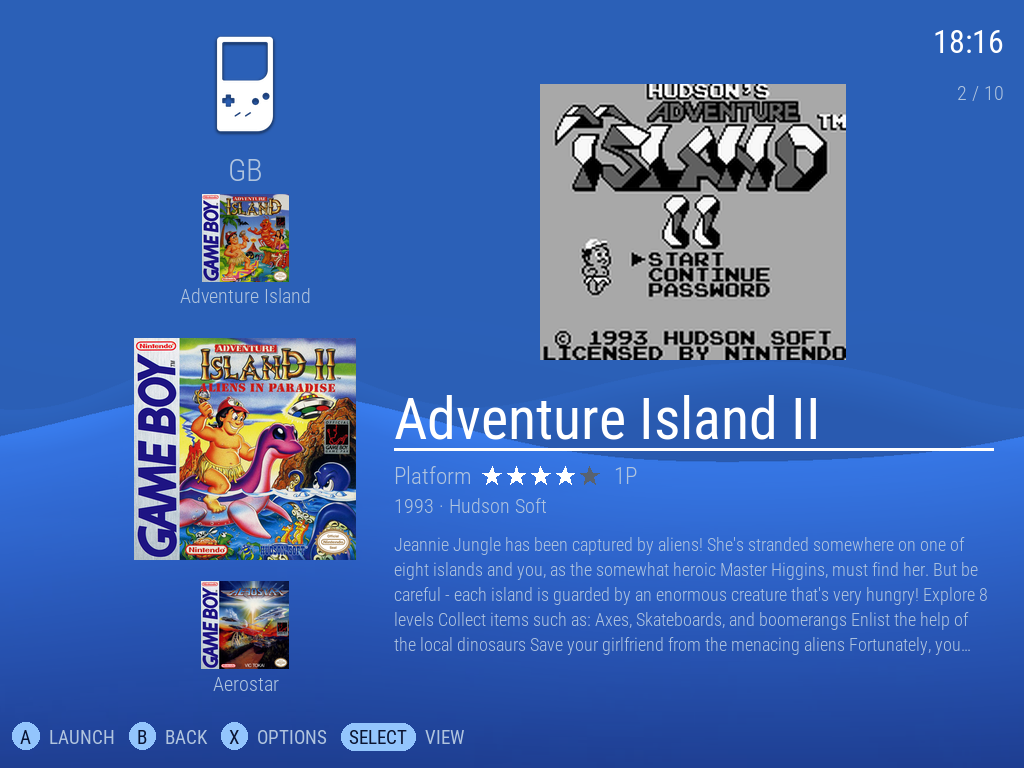
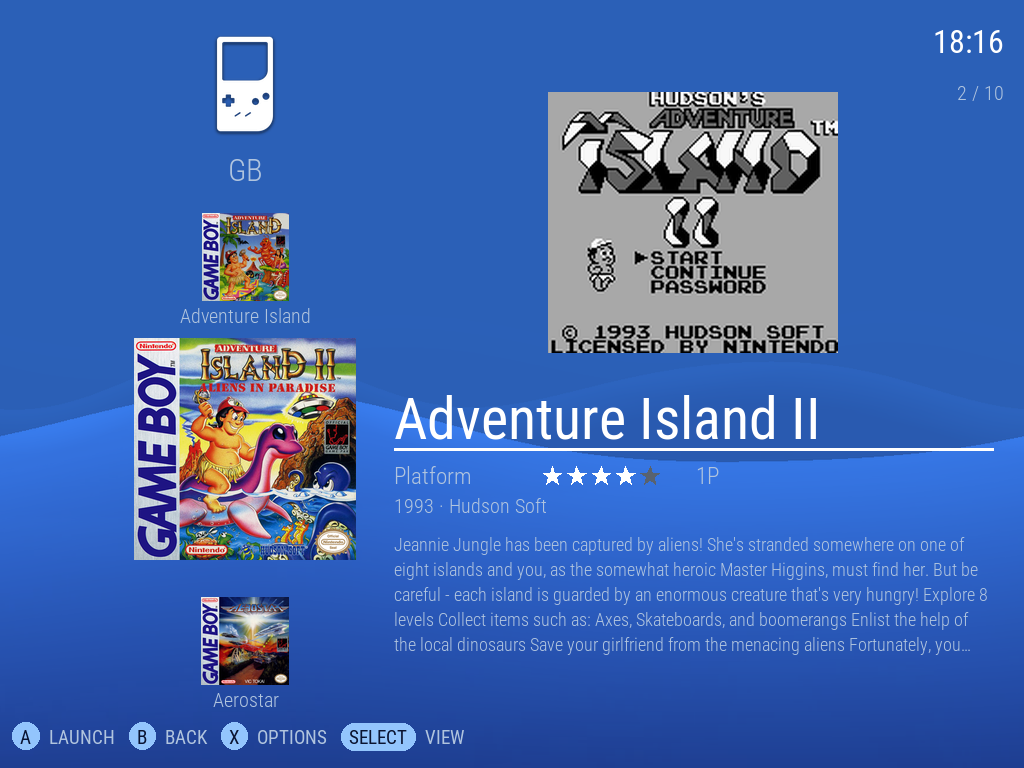
docs: five-star track + fixed metadata columns
{game:stars} emits filled glyphs only, so rounds 1-2 overstated the rating.
Approved fix is a dim backing track of five literal U+F005, which works
because ES does per-glyph font fallback to fontawesome (Font.cpp:274-312).

Layout consequence recorded: track is always 5 wide and filled is 0-5, so
both must be left-aligned at one fixed x. Stars can no longer flow after a
variable-width genre, so style A's metadata line becomes three fixed
columns. Column budget checked — 5 glyphs at cardMetaFontSize 0.030 measure
0.115 of screen width, leaving a 0.035 gap before the players column.

Side effect: this makes the long-genre overflow structurally impossible
rather than tuned away, which is what v0.11's per-ratio cardMetaFontSize
overrides were doing.

diff --git a/docs/superpowers/specs/2026-09-05-v0.12-gamelist-styles-design.md b/docs/superpowers/specs/2026-09-05-v0.12-gamelist-styles-design.md
@@ -172,7 +172,9 @@ middle centre. Verified collision-free:
 | Card boxart | `crossX`, 0.585 | `maxSize` 0.22 × 0.29 | 0.440 – 0.730 |
 | Card title | left 0.385, baseline 0.572 | font 0.075 | — |
 | Card rule | 0.385 → 0.970 at y 0.585 | 2 px | — |
-| Metadata line 1 | left 0.385, top 0.602 | `{game:genre}` + `{game:stars}` + `{game:playercount}P`, font 0.030 | — |
+| Metadata line 1 — genre | left 0.385, top 0.602 | `{game:genre}`, width **0.135**, `multiLine` false, font 0.030 | — |
+| Metadata line 1 — stars | left **0.530**, top 0.602 | track + `{game:stars}`, fixed column, font 0.030 | — |
+| Metadata line 1 — players | left **0.680**, top 0.602 | `{game:playercount}P`, font 0.030 | — |
 | Metadata line 2 | left 0.385, top 0.643 | `{game:releaseyear} · {game:developer}`, font 0.026 | — |
 | Description | left 0.385, top 0.695 | width 0.585, **5 lines**, font 0.023 | 0.695 – 0.870 |
 | Peek icon (next) | `crossX`, 0.835 | `maxSize` 0.088 × 0.115 | 0.7775 – 0.8925 |
@@ -199,7 +201,8 @@ beyond the shared media behaviour.
 | Selected row | — | `selectorColor` = `textPrimary` at ~30 % alpha; `selectedColor` = `textPrimary`; unselected `textSecondary` |
 | **`listMedia`** | centre (0.765, 0.30) | `maxSize` 0.34 × 0.30 |
 | Year · developer | left 0.575, top 0.505 | `{game:releaseyear}` in `${accent}`, font 0.030 |
-| Stars · players · genre | left 0.575, top 0.548 | font 0.028, genre in `${accent}` |
+| Stars | left 0.575, top 0.548 | track + `{game:stars}`, fixed column, font 0.028 |
+| Players · genre | left 0.700, top 0.548 | font 0.028, genre in `${accent}` |
 | Description | left 0.575, top 0.600 | width 0.395, 7 lines, font 0.024 |
 
 The system icon and the XMB peek column are **not** used in this style; the wave
@@ -218,7 +221,8 @@ Reference mockup: `d-boxart-grid.png`. No changes requested.
 | Unselected tiles | — | `imageColor` at ~62 % alpha |
 | Info bar | 0.03 → 0.97, y 0.795 – 0.905 | rounded panel, black at ~40 % |
 | Title | left 0.05, top 0.808 | `{game:name}`, font 0.046 |
-| Metadata | left 0.05, top 0.862 | genre · year · developer · players + stars, font 0.027 |
+| Metadata | left 0.05, top 0.862 | genre · year · developer · players, font 0.027, clipped at width 0.60 |
+| Stars | left **0.68**, top 0.862 | track + `{game:stars}`, fixed column, font 0.027 |
 
 `gridtile` properties confirmed present in this ES build: `size`, `padding`,
 `imageColor`, `backgroundImage`, `backgroundCornerSize`, `backgroundColor`,
@@ -296,11 +300,57 @@ It returns **only the filled glyphs** — there is no empty-star track. A
 mockups all draw a dim fifth star, so **the mockups overstate what ES will
 render.**
 
-If a five-star track is wanted, it has to be built: a dim `"\uF005"×5`
-text element behind the bound one, both in the fontawesome font at the same
-size, origin and position. That is a small piece of extra work, not free —
-raise it with the user rather than silently shipping four stars or silently
-building the track.
+### Decision: build the five-star track
+
+Approved 2026-09-05. Each style gets a paired element:
+
+```xml
+<!-- dim backing track: five literal U+F005, always five -->
+<text name="cardStarTrack" extra="true">
+  <pos>${cardStarX} ${cardMetaY}</pos>
+  <fontPath>${fontLight}</fontPath>
+  <fontSize>${cardMetaFontSize}</fontSize>
+  <color>${textSecondary}</color>
+  <opacity>0.35</opacity>
+  <text>&#xF005;&#xF005;&#xF005;&#xF005;&#xF005;</text>
+  <zIndex>7</zIndex>
+</text>
+<!-- filled stars, drawn over the track at the SAME anchor -->
+<text name="cardStars" extra="true">
+  <pos>${cardStarX} ${cardMetaY}</pos>
+  ... identical font, size, origin ...
+  <color>${textPrimary}</color>
+  <text>{game:stars}</text>
+  <zIndex>8</zIndex>
+</text>
+```
+
+This works because ES does **per-glyph font fallback**: `Font.cpp:274-312`
+searches the element's own font, then `:/fontawesome-webfont.ttf`, then
+`DroidSansFallbackFull.ttf`. A literal `U+F005` in theme XML therefore
+resolves to the same glyph, at the same size and advance width, as the one
+`{game:stars}` emits. No `<fontPath>` override is needed.
+
+**Consequence — stars must sit in a fixed column, not inline.** The track is
+always five glyphs wide and the filled string is 0–5, so both must be
+**left-aligned at the same fixed x**. They cannot flow after a
+variable-width genre, and they cannot be right-aligned (that would align the
+last *filled* star with the last *track* star). The round-1/2 mockups show
+`genre · stars · players` flowing inline; the implementation uses three
+fixed columns instead.
+
+This is a net win: it makes the original "a long genre pushes the stars onto
+line 2" fault **structurally impossible** rather than merely tuned away, which
+is what the v0.11 `cardMetaFontSize` per-ratio overrides were doing.
+
+Clip the genre to its column (`<multiLine>false</multiLine>` plus a bounded
+`<size>`) so it cannot reach the star column.
+
+**Column budget at 4:3.** Five glyphs at `cardMetaFontSize` 0.030 measure
+≈ 0.114 of screen width, so the star column occupies 0.530 – 0.644. Genre gets
+0.385 – 0.520 (clipped at 0.135) and players starts at 0.680. Any per-ratio
+change to `cardMetaFontSize` **must** re-check this budget — a larger font
+widens the track and will run it into the players column.
 
 ## 8. Per-aspect-ratio handling
 
@@ -323,7 +373,9 @@ KNULLI-accurate library (the 60-game slice at `/tmp/library`, not a synthetic on
 - 3 styles × {Boxart, Compact} × {PSP-Faithful, With Titles} for style A.
 - A game with no thumbnail and no video → media fallback in every style.
 - A long-genre game (e.g. "Shooter / 1st person") → stars stay on line 1.
-- A 0-rating game → `{game:stars}` is empty; confirm the metadata line does not collapse oddly.
+- A 0-rating game → `{game:stars}` is empty; confirm the dim track still shows five stars and nothing collapses.
+- A 5-star game → filled stars exactly cover the track, no track edge peeking out.
+- Confirm the literal `&#xF005;` track resolves via font fallback and is not tofu.
 - A long-description game → description clips, does not overflow.
 - Switch `gamelistStyle` between all three and confirm no element leakage
   between styles.
@@ -348,7 +400,7 @@ system carousel) — the harness cannot show these:
 | Description still does not clip on-device | medium | Fall back to `<clipRect>`. Do not ship an unbounded description again. |
 | Include-order regression silently drops aspect overrides | medium | Same class of bug as v0.11. Covered by the 15-render matrix; a wrong-size element at a non-4:3 ratio is the signature. |
 | Grid tile scaling / selection not tunable enough to match the mockup | low | `selectionMode` and `imageSizeMode` are present; worst case the selected tile gets a border but no scale-up. |
-| `{game:stars}` renders no empty-star track, so the view reads differently from every mockup | low | Called out in §7a. Decide with the user: accept filled-only, or build the dim backing track. |
+| Track and filled stars misalign (different font resolution or sub-pixel origin) | low | Both elements must be byte-identical except `text`, `color`, `opacity` and `zIndex`. Verified visually in the render matrix at all five aspect ratios. |
 | Three style files drift apart (chrome, wave, `md_*` suppression duplicated 3×) | low | Accepted cost of the Knulli animation quirk. Keep the duplicated blocks byte-identical and comment why. |
 
 ## 11. Out of scope

diff --git a/docs/screenshots/v0.12-gamelist-mockups/README.md b/docs/screenshots/v0.12-gamelist-mockups/README.md
@@ -119,3 +119,26 @@ Read from `/opt/es` in the render container (Knulli `9bbb16a`), not assumed:
   **Limit:** this preserves the *video file's* aspect ratio, not the system's
   canonical one. A 4:3-padded ScreenScraper clip for a 10:9 Game Boy game will
   render with its padding intact; the theme cannot crop it.
+
+---
+
+# Round 3 — five-star track, fixed metadata columns
+
+`{game:stars}` emits **filled glyphs only** (`FileData.cpp:1924` loops
+`i < stars`). Rounds 1 and 2 drew a dim fifth star that ES would never render.
+
+Approved fix: pair each bound stars element with a dim backing track of five
+literal `&#xF005;`. ES does per-glyph font fallback
+(`Font.cpp:274-312`: element font → `:/fontawesome-webfont.ttf` → Droid), so
+the literal resolves to the same glyph at the same advance width.
+
+**Layout consequence:** the track is always five glyphs wide and the filled
+string is 0–5, so both must be left-aligned at the same fixed x. Stars can no
+longer flow after a variable-width genre. Style A's metadata line 1 becomes
+three fixed columns — genre `0.385` (clipped at `0.135`), stars `0.530`,
+players `0.680`.
+
+This makes the original "a long genre pushes the stars onto line 2" fault
+structurally impossible, rather than tuned away as in v0.11.
+
+The `a2-*` mockups above are regenerated to match.
